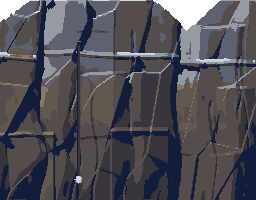
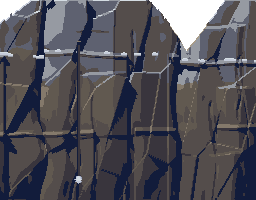
Lanternhold world lane, fix round 1 after lh-w1f1-2: the deck as lumpy cloud masses with flat wisps under it, no high clouds in the wedges, the moon low in the bailey's wedge, brighter eyes, shorter snow drifts, water in strands that splash on two ledges, cooler bedrock with a two-pixel lit edge

diff --git a/games/lanternhold/Render/PlaceholderArt.swift b/games/lanternhold/Render/PlaceholderArt.swift
@@ -49,13 +49,13 @@ enum PlaceholderArt {
              .laneEarthD:
             frames = [ground(salt)]
         case .d2FogBank, .d2MistBand, .d2FogLow, .d2Smoke, .gloomFogBack, .gloomFogMid, .gloomFogFront, .gloomWisp,
-             .cleftShaft, .bankSheetA, .bankSheetB, .bankSheetC, .bankEnd, .cloudDeck, .cleftWater:
+             .cleftShaft, .bankSheetA, .bankSheetB, .bankSheetC, .bankEnd, .cloudDeck:
             frames = [mistBank(salt, size: size)]
         case .farCastleGlow, .farCleftGlow, .farCleftGlowBack, .farCastle2Glow, .farCastle3Glow, .farCastleBack2Glow,
              .farCastleBack3Glow, .farCleftGlow2, .farCleftGlow2Build, .farCleftGlow3, .farCleftGlow3Build,
              .farCleftGlowBack2, .farCleftGlowBack2Build, .farCleftGlowBack3, .farCleftGlowBack3Build,
              .d2Fireflies, .d2Sparks, .darknessBankGlow, .houseLit, .houseBLit, .houseCLit, .bigHouseLit,
-             .tavernLit, .gloomFogEyes:
+             .tavernLit, .gloomFogEyes, .cleftWater:
             frames = [glowStandIn(salt, size: size)]
         default:
             // M2b first (the strips of SPRITES.md), then the milestone 1 buildings and grids.

diff --git a/games/lanternhold/Core/SceneLayoutLook2.swift b/games/lanternhold/Core/SceneLayoutLook2.swift
@@ -196,9 +196,9 @@ extension SceneLayout {
         // lights: they light the picture only), their pools centred over the roofs (the buildings stand 60 to 80
         // rows high), so the warmth shows on the rock above them.
         // Fix round 1: at night the moon stands in the wedge of sky over the bailey (mid 1010: seen from world 1600
-        // to 2100), its top six rows under the wall's top.
+        // to 2100), low in the wedge (its top 22 rows under the wall's top, clear of the screen's top edge).
         (.mid, Entry(sprite: .cleftWallA, x: look2CleftX[0], y: 0, z: 3, anchor: .top, region: .castle,
-                     emitters: [.sprite(.moon, dx: look2SlitMoonX - look2CleftX[0] - 7, dy: 180, glow: .moon,
+                     emitters: [.sprite(.moon, dx: look2SlitMoonX - look2CleftX[0] - 7, dy: 164, glow: .moon,
                                         fades: true)],
                      lights: [Light(kind: .lantern, x: 884, y: 92, radius: 96),
                               Light(kind: .lantern, x: 1024, y: 98, radius: 104)])),

diff --git a/games/lanternhold/Core/FrameBuilder.swift b/games/lanternhold/Core/FrameBuilder.swift
@@ -613,9 +613,11 @@ enum FrameBuilder {
             let share = (geometry.focusX - fadeOut.lowerBound) / max(1, fadeOut.upperBound - fadeOut.lowerBound)
             alpha *= Float(1 - min(1, max(0, share)))
         }
-        if options.look == .two && prop.plane == .far {
+        if options.look == .two && (prop.plane == .far || prop.plane == .clouds) {
             // World rebuild (B5, H1): inside the walls the cleft wall fills the view up to its slit of sky, and the
             // far plane is gone (it fades while the gatehouse and the steps cover it, and comes back at the back gate).
+            // Fix round 1 (the director: "the slit at dusk reads as autumn leaves"): the high clouds go with it, so
+            // the wedges of sky show the sky's own gradient, the stars and the moon.
             alpha *= Float(1 - cleftShare(focus: geometry.focusX))
         }
         guard alpha > 0.003 else { return }

diff --git a/games/lanternhold/Core/FrameDesc.swift b/games/lanternhold/Core/FrameDesc.swift
@@ -359,7 +359,7 @@ enum SpriteID: String, Sendable, CaseIterable, Equatable {
         case .bankSheetC: return PixelSize(width: 256, height: 56)
         case .bankEnd: return PixelSize(width: 96, height: 208)
         case .cloudDeck: return PixelSize(width: 720, height: 80)
-        case .cleftWater: return PixelSize(width: 3, height: 132)
+        case .cleftWater: return PixelSize(width: 5, height: 132)
         case .moorRuin: return PixelSize(width: 50, height: 36)
         case .hildVarn, .lorenzPell, .ebbaCalder, .orlaLorn: return PixelSize(width: 14, height: 30)
         case .portraitHildVarn, .portraitLorenzPell, .portraitEbbaCalder, .portraitOrlaLorn:

diff --git a/games/lanternhold/Core/DarknessBankLook.swift b/games/lanternhold/Core/DarknessBankLook.swift
@@ -85,8 +85,8 @@ extension FrameBuilder {
 
     /// The strength of a pair's glow: near pairs bright, far ones dim, all of them fainter by day.
     static func bankEyeStrength(_ eye: BankEye, ambient: AmbientSample) -> Float {
-        let depth: Float = eye.near ? 1 : 0.55
-        let hour: Float = 0.5 + 0.5 * Look.nightness(ambient)
+        let depth: Float = eye.near ? 1.7 : 1.1
+        let hour: Float = 0.55 + 0.45 * Look.nightness(ambient)
         return depth * hour * Float(min(1, eye.open * 1.4))
     }
 

diff --git a/games/lanternhold/tools/fogart.py b/games/lanternhold/tools/fogart.py
@@ -321,20 +321,23 @@ def cloud_deck():
     w, h = DECK_W, DECK_H
     img = PA.Image(w, h)
     sd = 611
-    pal = {k: WA.col(k) for k in ("parchment", "mistLight", "farPale", "mist", "moon", "mistDark")}
+    pal = {k: WA.col(k) for k in ("mistLight", "farPale", "mist", "moon", "mistDark")}
     L = (-0.62, -0.78)
 
     def env(x):  # the deck's strength along it: whole in the middle, puffs toward both ends
         return ss((x - 10) / 110.0) * ss((w - 10 - x) / 160.0)
 
     discs = []   # (cx, cy, r, rank)
-    for rank, (gap, rmin, rmax, lift) in enumerate(((22, 11, 21, 0), (15, 6, 12, 7))):
+    for rank, (gap, rmin, rmax, lift) in enumerate(((15, 7, 17, 0), (14, 4, 9, 6))):
         x, k = 4.0 + 7 * rank, 0
         while x < w - 4:
             e = env(x)
-            r = (rmin + (rmax - rmin) * h01(sd + rank, k)) * (0.45 + 0.55 * e)
+            # sizes vary along the deck in swells (a few big heads among many small ones), never in a regular row
+            swell = 0.55 + 0.45 * pn(sd + 30 + rank, x / 47.0, 999)
+            r = (rmin + (rmax - rmin) * h01(sd + rank, k) ** 1.4) * (0.45 + 0.55 * e) * (0.6 + 0.6 * swell)
             if e > 0.08 or h01(sd + 5 + rank, k) < 0.55:
-                cy = DECK_BASE + lift - r * (0.55 + 0.25 * h01(sd + 9 + rank, k)) + 4 * (1 - e)
+                cy = DECK_BASE + lift - r * (0.35 + 0.45 * h01(sd + 9 + rank, k)) + 4 * (1 - e) \
+                    - 6 * (swell - 0.5)
                 discs.append((x, cy, r, rank))
             x += gap * (0.6 + 0.6 * h01(sd + 3 + rank, k)) * (0.7 + 0.3 * e) + r * 0.4
             k += 1
@@ -346,49 +349,64 @@ def cloud_deck():
     # the billows as a height field: each disc a dome, the deck the highest dome at each pixel (front discs stand
     # 6 px nearer); the normal of that field takes the light, so the shading runs across the billows and creases
     # where two meet (no bubble rings)
-    zf = [[None] * w for _ in range(h)]
+    # the billows' silhouette (the union of the discs), and the front rank's own tops inside it: a cloud is shaded
+    # from its top contour down (a lit rim that is broad where the contour faces the light, thin where it turns
+    # away, then the body, then the shaded belly), and the front lobes draw their own lit arcs inside the mass;
+    # shading each disc as a sphere read as soap bubbles
+    inside = [[False] * w for _ in range(h)]
+    front = [[None] * w for _ in range(h)]       # rows under a front lobe's own top
     for (cx, cy, r, rank) in discs:
         for y in range(max(0, int(cy - r - 1)), min(h, int(cy + r + 2))):
             for x in range(max(0, int(cx - r - 1)), min(w, int(cx + r + 2))):
-                dd = (x + 0.5 - cx) ** 2 + (y + 0.5 - cy) ** 2
-                if dd <= r * r:
-                    z = math.sqrt(r * r - dd) + 6 * rank
-                    if zf[y][x] is None or z > zf[y][x]:
-                        zf[y][x] = z
-    LX, LY, LZ = -0.5, -0.66, 0.56
-
-    def zat(x, y, z0):
-        if 0 <= x < w and 0 <= y < h and zf[y][x] is not None:
-            return zf[y][x]
-        return z0 - 4
+                dx, dy = x + 0.5 - cx, y + 0.5 - cy
+                if dx * dx + dy * dy <= r * r:
+                    inside[y][x] = True
+                    if rank == 1:
+                        top_here = cy - math.sqrt(max(0.0, r * r - dx * dx))
+                        dd = y + 0.5 - top_here
+                        if front[y][x] is None or dd < front[y][x]:
+                            front[y][x] = dd
+    tops = []
+    for x in range(w):
+        t = next((y for y in range(h) if inside[y][x]), None)
+        if t is None and env(x) > 0.05:
+            t = DECK_BASE - 2
+        tops.append(t)
 
     for y in range(h):
         for x in range(w):
             e = env(x)
             u = under(x)
             col, a = None, 0.0
-            z0 = zf[y][x]
-            if z0 is not None or (y >= DECK_BASE - 2 and y <= u and e > 0.05):
-                if z0 is not None:
-                    gx = (zat(x + 1, y, z0) - zat(x - 1, y, z0)) * 0.5
-                    gy = (zat(x, y + 1, z0) - zat(x, y - 1, z0)) * 0.5
-                    nn = math.sqrt(gx * gx + gy * gy + 1)
-                    lit = (-gx * LX - gy * LY + LZ) / nn
-                    crease = (zat(x - 2, y, z0) + zat(x + 2, y, z0) + zat(x, y - 2, z0) + zat(x, y + 2, z0)) / 4 - z0
-                    q = lit - 0.08 * max(0.0, crease) + 0.12 * (WA.vnoise2(sd + 17, x / 6.0, y / 4.0) - 0.5)
-                    col = "parchment" if q > 0.84 else "mistLight" if q > 0.66 else "farPale" if q > 0.38 else "mist"
+            body = inside[y][x] or (y >= DECK_BASE - 2 and y <= u and e > 0.05)
+            if body and tops[x] is not None:
+                d = y - tops[x]
+                tl = tops[max(0, x - 2)] if tops[max(0, x - 2)] is not None else tops[x]
+                tr = tops[min(w - 1, x + 2)] if tops[min(w - 1, x + 2)] is not None else tops[x]
+                slope = tr - tl                          # > 0: the contour falls to the east (it faces the light)
+                rim = 2 + max(0, min(3, slope))
+                wob = 1.2 * (WA.vnoise2(sd + 17, x / 7.0, y / 3.0) - 0.5)
+                if d + wob < rim:
+                    col = "mistLight" if slope >= 0 else "farPale"
+                elif d + wob < rim + 6:
+                    col = "farPale"
                 else:
-                    q = WA.vnoise2(sd + 19, x / 9.0, y / 4.0)
-                    col = "farPale" if q > 0.5 else "mist"
+                    col = "mist"
+                fd = front[y][x]
+                if fd is not None and fd < 2.2 and d > 2:
+                    col = "mistLight" if fd < 1.2 else "farPale"   # a front lobe's lit arc
                 if u - y < 2.5 and y > DECK_BASE - 2:
-                    col = "moon" if WA.vnoise2(sd + 21, x / 5.0, y / 3.0) > 0.4 else "mist"
-                a = 1.0 if e > 0.3 or z0 is not None else ss(e / 0.3)
+                    col = "mistDark" if WA.vnoise2(sd + 21, x / 5.0, y / 3.0) > 0.4 else "moon"
+                elif u - y < 5 and y > DECK_BASE - 2 and col == "mist":
+                    col = "moon"
+                a = 1.0 if e > 0.3 or inside[y][x] else ss(e / 0.3)
             elif y > u and e > 0.02:
                 # the veil of mist under the deck: 48 px down, thinning in dithered steps; rags hang in it
+                # (fix: its rags lie in long flat wisps; streaks that ran down read as a curtain)
                 g = y - u
-                rag = pn2(sd + 23, x / 6.0, y / 9.0, 9999)
-                a = (1 - ss(g / 48.0)) * (0.5 + 0.5 * rag) * 0.6 * e
-                col = "mistLight" if g < 4 and rag > 0.6 else "mist" if g < 16 else "mistDark"
+                rag = pn2(sd + 23, x / 23.0, y / 3.5, 9999)
+                a = (1 - ss(g / 48.0)) ** 1.4 * (0.35 + 0.65 * rag) * 0.5 * e
+                col = "farPale" if g < 4 and rag > 0.6 else "mist" if g < 18 else "mistDark"
             if col is None:
                 continue
             qa = a * (BANK_LEVELS - 1) + (bay(x + 2, y + 1) - 0.5)

diff --git a/games/lanternhold/tools/cleftart.py b/games/lanternhold/tools/cleftart.py
@@ -67,7 +67,7 @@ SLIT_ROWS = 24
 # with rock"): the wall stands to the screen's top except in two wedges, over the gatehouse (seen when the camera is on
 # the gate) and over the bailey (seen from world 1600 to 2100, where the moon stands in it at night). (centre, half
 # width at the top, depth in rows, seed)
-WEDGES = [(792, 62, 46, 521), (1010, 34, 30, 523)]
+WEDGES = [(792, 62, 46, 521), (1010, 38, 50, 523)]
 
 
 def slit(gx):
@@ -156,11 +156,11 @@ def snow_caps(img, field, gx0, rows=96):
             row = m.band_row(by, tilt, gs, gx, field.column(x, int(by)))
             if row > rows or h01(m.seed, gs, int((gx + 37 * gs) // 57)) < 0.45:
                 continue
-            drift = vnoise(709 + gs, gx / 11.0)
-            if drift < 0.5:
+            drift = vnoise(709 + gs, gx / 6.0)
+            if drift < 0.6:
                 continue
             r0 = int(math.floor(row))
-            deep = 2 + (1 if drift > 0.68 else 0)
+            deep = 2 + (1 if drift > 0.8 else 0)
             for k in range(deep + 1):
                 y = r0 - deep + 1 + k
                 if 0 <= y < img.h and img.get(x, y)[3] and field.inside(x, y):
@@ -246,29 +246,41 @@ def shaft():
     return img
 
 
-WATER_W, WATER_FRAMES = 3, 4
+WATER_W, WATER_FRAMES = 5, 4
+WATER_JOGS = (46, 92)   # the rows where a thread strikes a ledge, splashes and goes on a pixel or two aside
 
 
 def water():
-    """cleftWater (fix round 1, the critic: "water threads are dashed lines with no spray"): one thread of falling water,
-    3 x WATER_LEN, four frames that scroll it down 3 px each (the engine plays them at 6 a second, none with Reduce
-    Motion): a continuous line of mist and mistLight, a pixel wide where it leaves the crack and two lower down, with
-    brighter foam runs that travel down it; it frays into droplets in its last rows over the spray."""
+    """cleftWater (fix round 1, the critic: "water threads are dashed lines with no spray"): one thread of falling
+    water, 5 x WATER_LEN, four frames that scroll it down 3 px each (the engine plays them at 6 a second, none with
+    Reduce Motion). It leaves its crack a pixel wide, widens to two, strikes two ledges on the way (a splash of foam,
+    then it goes on a pixel or two aside), runs in broken foam and mist (falling water, not a pole) and frays into
+    droplets over its spray."""
     w, h = WATER_W, WATER_LEN
     img = PA.Image(w * WATER_FRAMES, h)
     foam, light, mist = col("foam"), col("mistLight"), col("mist")
     for f in range(WATER_FRAMES):
         for y in range(h):
             yy = y - f * 3
-            run = h01(741, (yy // 7) % 41)
-            wide = y > 36 + 20 * h01(743, (yy // 11) % 29)
-            c = foam if run > 0.72 else light if run > 0.3 else mist
-            lean = 1 if y > 70 and h01(745, (y // 23)) < 0.4 else 0
-            if y > h - 10 and h01(747, f, y) < 0.45:
-                continue   # it frays over the spray
-            img.set(f * w + lean, y, c)
-            if wide and lean == 0:
-                img.set(f * w + 1, y, mist if c != mist else light)
+            x = 1 + (1 if y >= WATER_JOGS[0] else 0) + (1 if y >= WATER_JOGS[1] else 0)
+            run = h01(741, (yy // 5) % 53)
+            if run < 0.18 and 6 < y < h - 12:
+                c = None                                       # a gap: the water falls in strands
+            else:
+                c = foam if run > 0.78 else light if run > 0.42 else mist
+            wide = y > 30
+            if y > h - 10 and h01(747, f, y) < 0.5:
+                c = None                                       # it frays over the spray
+            if c:
+                img.set(f * w + x, y, c)
+                if wide:
+                    img.set(f * w + x + 1, y, mist if c == foam else light if c == mist else mist)
+            for j in WATER_JOGS:                                # the splash where it strikes a ledge
+                if j - 1 <= y <= j + 1:
+                    for dx in (-1, 0, 1, 2):
+                        xx = x + dx
+                        if 0 <= xx < w and h01(749, f, y, dx) < (0.85 if dx in (0, 1) else 0.5):
+                            img.set(f * w + xx, y, foam if dx in (0, 1) and y == j else light)
     return img
 
 
@@ -282,9 +294,9 @@ GATE = {
     # third of the tower's height, that bulges out past the tower's outer edge and climbs over its foot in ledges, so
     # the tower's line is broken by rock; the tower's lowest courses step down into notches of it.
     "gateRockL": (108, 80, 1186, 1201,
-                  [(1186, 2), (1189, 9), (1194, 14), (1199, 17), (1202, 27), (1207, 31), (1213, 34), (1217, 35),
-                   (1220, 47), (1225, 53), (1231, 57), (1238, 61), (1244, 66), (1249, 71), (1254, 70), (1256, 61),
-                   (1265, 59), (1267, 47), (1277, 45), (1279, 33), (1289, 31), (1292, 18), (1294, 2)],
+                  [(1186, 2), (1188, 12), (1191, 19), (1194, 23), (1196, 36), (1200, 42), (1204, 46), (1207, 57),
+                   (1212, 61), (1218, 63), (1224, 67), (1230, 69), (1236, 71), (1242, 73), (1249, 76), (1253, 74),
+                   (1256, 61), (1265, 59), (1267, 47), (1277, 45), (1279, 33), (1289, 31), (1292, 18), (1294, 2)],
                   # the steps over the tower's face (from, to, the step's top): a course of ashlar in each
                   [(1250, 1255, 70), (1257, 1265, 60), (1268, 1277, 46), (1280, 1289, 32)]),
     "gateRockR": (64, 70, 1436, 1467,
@@ -318,7 +330,7 @@ def gate_rock(name):
     massif = RF.Massif(seed, gx0 - 40, gx0 + w + 40, h, 20, 44, relief=0.8, ledge_gap=(12, 22), sheets=False,
                        bands=bands, facets=0.26, chimneys=0.15, swell=2.0)
     field = RF.Field(massif, gx0, w, h, top, margin=24)
-    img = RF.paint(field, "gate", rim=0.0, seed=seed, contrast=1.1, lit_rim=True, clamp=0.6)
+    img = RF.paint(field, "footing", rim=0.0, seed=seed, contrast=1.1, lit_rim=True, clamp=0.6)
     # the tower's lowest courses step down into the rock: on each step over the tower's face a course of ashlar,
     # four rows high, its blocks 5 to 9 px long, lit on top and on the west, mortar between them, the rock's lip
     # casting a row of shadow under it

diff --git a/games/lanternhold/tools/rockfield.py b/games/lanternhold/tools/rockfield.py
@@ -48,8 +48,9 @@ RAMPS = {
     "slate": ["nightSlate", "stoneDark", "stoneMid", "stone", "mistDark", "stoneLight"],
     "far": ["nightSlate", "farDeep", "far", "mistDark", "mist", "farPale"],
     "gate": ["nightDeep", "rockDeep", "rockDark", "rock", "rockLight", "rockPale"],
-    # fix round 1: the old walls' footings, the cleft's granite with the shade in cool greys (the director)
-    "footing": ["nightDeep", "stoneDark", "rockDark", "rock", "rockLight", "rockPale"],
+    # fix round 1: the old walls' footings and the gate's bedrock, the cleft's granite with the shade in cool greys
+    # (the director: "warm only where a fire lights them")
+    "footing": ["nightDeep", "stoneDark", "stoneMid", "rock", "rockLight", "rockPale"],
 }
 COLD = {"cleft": ["nightBlue", "stoneDark", "stoneMid", "stone", "stoneLight", "mistLight"],
         "gate": ["nightDeep", "stoneDark", "stoneMid", "stone", "stoneLight", "mistLight"]}
@@ -199,7 +200,7 @@ class Massif:
                 if y >= row:
                     k += 1
                 # a band breaks here and there (its gaps a buttress wide at most)
-                if h01(self.seed, gs, int((gx + 37 * gs) // 57)) < 0.45:
+                if h01(self.seed, gs, int((gx + 37 * gs) // 41)) < 0.5:
                     continue
                 z += shelf * r * ss((y - row) / 2.4 + 0.5)
                 z -= under * r * ss((y - row - 3.5) / 1.0 + 0.5)
@@ -381,9 +382,12 @@ def paint(field, ramp_name, gain=1.0, lift=0.0, dither=0.0, snow_rows=0, snow_sh
                 # or west (toward the light), none on the shaded east slopes; two pixels where the edge is steep
                 west_open = not field.inside(x - 1, y)
                 rising = field.inside(x + 1, y - 1) or not field.inside(x + 1, y)
+                second = field.inside(x, y - 1) and not field.inside(x, y - 2) and not field.inside(x - 1, y - 1) \
+                    and field.inside(x + 1, y - 1)
                 if (edge_top and (rising or west_open)) or (west_open and field.inside(x, y - 1) and
-                                                             not field.inside(x - 1, y - 1)):
-                    c = snow[1] if snow_rows and y < snow_rows else ramp[min(n - 1, max(k, n - 3) + 2)]
+                                                             not field.inside(x - 1, y - 1)) or second:
+                    # (fix round 1: on a slope the edge is two pixels deep, so it reads as one line, not dots)
+                    c = snow[1] if snow_rows and y < snow_rows else ramp[min(n - 1, max(k, n - 3) + 2 - second)]
             elif rim and edge_top and h01(seed, gx) < rim:
                 c = snow[1] if snow_rows and y < snow_rows else ramp[min(n - 1, k + 2)]
             if mist_left and gx < mist_left[1]:
